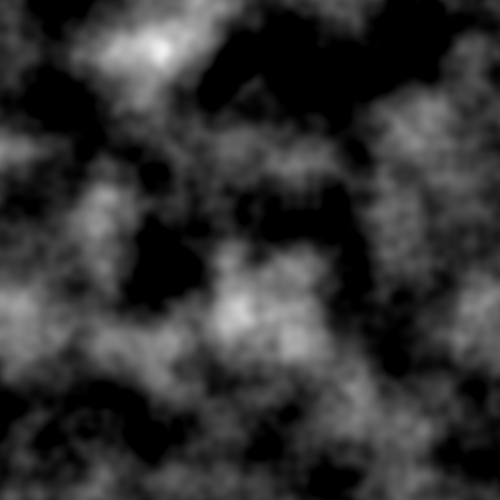
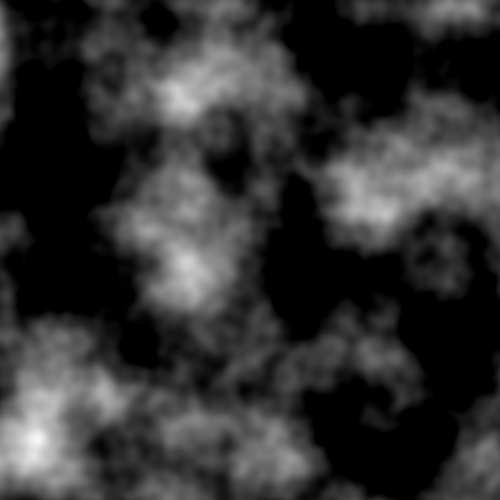
Use noise function instead of precalculated randoms

diff --git a/src/alg/perlin.rs b/src/alg/perlin.rs
@@ -1,7 +1,32 @@
+use std::collections::HashSet;
+
 use glam::{Vec2, Vec3};
 use rand::prelude::*;
 
-use crate::alg::{mix_f32, Noise};
+use crate::alg::{mix_f32, mix_vec3, Noise};
+
+fn noise(p: Vec2) -> Vec2 {
+    let p = p + 0.02;
+    let x = p.dot(Vec2::new(123.4, 234.5));
+    let y = p.dot(Vec2::new(234.5, 345.6));
+    let mut noise = Vec2::new(x, y);
+
+    noise = Vec2::new(f32::sin(noise.x), f32::sin(noise.y));
+    noise = noise * 43758.5453;
+
+    noise = Vec2::new(f32::sin(noise.x), f32::sin(noise.y));
+    return noise * 1.01;
+}
+
+// vec2 noise2x2(vec2 p) {
+//   float x = dot(p, vec2(123.4, 234.5));
+//   float y = dot(p, vec2(345.6, 456.7));
+//   vec2 noise = vec2(x, y);
+//   noise = sin(noise);
+//   noise = noise * 43758.5453;
+//   noise = fract(noise);
+//   return noise;
+// }
 
 fn quintic(p: Vec2) -> Vec2 {
     return p * p * p * (p * (p * 6.0 - 15.) + 10.);
@@ -9,48 +34,32 @@ fn quintic(p: Vec2) -> Vec2 {
 
 pub struct Perlin {
     pub scale: u32,
-    pub anchors: Vec<Vec2>,
 }
 
 impl Perlin {
-    fn rnd_anchors(scale: u32) -> Vec<Vec2> {
-        let num = (scale + 1) * (scale + 1);
-        let mut anchors: Vec<Vec2> = Vec::with_capacity((num) as usize);
-        let mut rng = rand::rng();
-        for _ in 0..num {
-            let rx = rng.random_range(-1.0..1.0);
-            let ry = rng.random_range(-1.0..1.0);
-
-            anchors.push(Vec2::new(rx, ry));
-        }
-
-        anchors
-    }
-
     pub fn new(scale: u32) -> Perlin {
-        Perlin {
-            scale,
-            anchors: Perlin::rnd_anchors(scale),
-        }
+        Perlin { scale }
     }
 }
 
 impl Noise for Perlin {
-    fn noise(&self, uv: Vec2) -> Vec3 {
+    fn noise(&mut self, uv: Vec2) -> Vec3 {
         let s_uv = uv * self.scale as f32;
 
         let grid_id = s_uv.floor();
-        let mut grid_uv = s_uv.fract();
+        let mut grid_uv = s_uv - grid_id;
 
-        let index_tl = (grid_id.x + grid_id.y * (self.scale + 1) as f32) as usize;
-        let index_tr = index_tl + 1;
-        let index_br = index_tl + self.scale as usize + 2;
-        let index_bl = index_br - 1;
+        let s = format!("{},{}", grid_id.x, grid_id.y);
 
-        let grad_tl = self.anchors.get(index_tl).unwrap();
-        let grad_tr = self.anchors.get(index_tr).unwrap();
-        let grad_br = self.anchors.get(index_br).unwrap();
-        let grad_bl = self.anchors.get(index_bl).unwrap();
+        let tl = grid_id + Vec2::new(0.0, 0.0);
+        let tr = grid_id + Vec2::new(1.0, 0.0);
+        let br = grid_id + Vec2::new(1.0, 1.0);
+        let bl = grid_id + Vec2::new(0.0, 1.0);
+
+        let grad_tl = noise(tl);
+        let grad_tr = noise(tr);
+        let grad_br = noise(br);
+        let grad_bl = noise(bl);
 
         let uv_to_tl = grid_uv - Vec2::new(0.0, 0.0);
         let uv_to_tr = grid_uv - Vec2::new(1.0, 0.0);
@@ -63,8 +72,10 @@ impl Noise for Perlin {
         let dot_bl = grad_bl.dot(uv_to_bl);
 
         grid_uv = quintic(grid_uv);
+
         let t = mix_f32(dot_tl, dot_tr, grid_uv.x);
         let b = mix_f32(dot_bl, dot_br, grid_uv.x);
+
         let noise = mix_f32(t, b, grid_uv.y) + 0.1;
 
         Vec3::new(noise, noise, noise)

diff --git a/src/alg/worley.rs b/src/alg/worley.rs
@@ -1,40 +1,36 @@
 use glam::{Vec2, Vec3};
 use rand::prelude::*;
 
-use crate::alg::Noise;
+use crate::alg::{mix_vec3, Noise};
+
+fn noise(p: Vec2) -> Vec2 {
+    //let p = p + 0.02;
+    let x = p.dot(Vec2::new(123.4, 234.5));
+    let y = p.dot(Vec2::new(234.5, 345.6));
+    let mut noise = Vec2::new(x, y);
+
+    noise = Vec2::new(f32::sin(noise.x), f32::sin(noise.y));
+    noise = noise * 43758.5453;
+
+    noise = noise.fract();
+    return noise;
+}
 
 pub struct Worley {
     scale: u32,
-    anchors: Vec<Vec2>,
 }
 
 impl Worley {
-    fn rnd_anchors(scale: u32) -> Vec<Vec2> {
-        let mut anchors: Vec<Vec2> = Vec::with_capacity((scale * scale) as usize);
-        let mut rng = rand::rng();
-        for _ in 0..scale * scale {
-            let rx = rng.random::<f32>();
-            let ry = rng.random::<f32>();
-
-            anchors.push(Vec2::new(rx, ry));
-        }
-
-        anchors
-    }
-
     pub fn new(scale: u32) -> Worley {
-        Worley {
-            scale,
-            anchors: Worley::rnd_anchors(scale),
-        }
+        Worley { scale }
     }
 }
 
 impl Noise for Worley {
-    fn noise(&self, uv: Vec2) -> Vec3 {
+    fn noise(&mut self, uv: Vec2) -> Vec3 {
         let st = uv * self.scale as f32;
 
-        let current_cell = Vec2::new(st.x.floor(), st.y.floor());
+        let current_cell = st.floor();
 
         let mut min_dist = 1.0f32;
 
@@ -42,15 +38,7 @@ impl Noise for Worley {
             for nx in -1..=1 {
                 let offset_cell = Vec2::new(nx as f32, ny as f32);
 
-                let index = ((current_cell.x + offset_cell.x)
-                    + (current_cell.y + offset_cell.y) * self.scale as f32)
-                    as usize;
-
-                let point: Vec2;
-                match self.anchors.get(index) {
-                    None => continue,
-                    Some(p) => point = *p,
-                }
+                let point = (noise(current_cell + offset_cell)).abs();
 
                 let diff = (current_cell + offset_cell + point) - st;
 
@@ -59,6 +47,7 @@ impl Noise for Worley {
                 min_dist = min_dist.min(dist);
             }
         }
+
         Vec3::new(min_dist, min_dist, min_dist)
     }
 }

diff --git a/src/main.rs b/src/main.rs
@@ -1,30 +1,29 @@
 mod alg;
 
-use glam::Vec2;
+use glam::{Vec2, Vec3};
 
 use image::{ImageBuffer, Rgb};
 
 use crate::alg::fbm::fbm;
-use crate::alg::mix_vec3;
+use crate::alg::{mix_vec3, worley};
 use crate::alg::perlin::Perlin;
 use crate::alg::worley::Worley;
 use crate::alg::Noise;
 
 fn generate(
     res: u32,
-    noises: Vec<impl Noise>,
-    mut f: impl FnMut(u32, u32, f32, f32, f32),
+    offset: Vec2,
+    noises: &mut Vec<impl Noise>,
+    mut f: impl FnMut(u32, u32, Vec3),
 ) -> Vec<u8> {
     for iy in 0..res {
         for ix in 0..res {
             let p = Vec2::new(ix as f32, iy as f32);
-            let uv = p / res as f32;
+            let uv = p / res as f32 + offset;
 
-            let col = fbm(uv, &noises);
+            let col = fbm(uv, noises);
 
-            let rgb = mix_vec3(0., 266., col);
-
-            f(ix, iy, rgb.x, rgb.y, rgb.z);
+            f(ix, iy, col);
         }
     }
 
@@ -36,16 +35,25 @@ fn main() {
     let mut imgbuf: ImageBuffer<Rgb<u8>, Vec<_>> = image::ImageBuffer::new(res, res);
 
     // Different random points for each octave.
-    let noises = vec![
-        Perlin::new(4),
-        Perlin::new(8),
-        Perlin::new(16),
-        Perlin::new(32),
+    let noises = &mut vec![
+        Worley::new(4),
+        Worley::new(8),
+        Worley::new(16),
+        Worley::new(32),
     ];
 
-    generate(res, noises, |ix, iy, r, g, b| {
+    let reverse_col = true;
+
+    generate(res, Vec2::new(0., 0.), noises, |ix, iy, col| {
         let pixel = imgbuf.get_pixel_mut(ix, iy);
-        *pixel = image::Rgb([r as u8, g as u8, b as u8]);
+
+        let rgb = if !reverse_col {
+            mix_vec3(0., 255., col)
+        } else {
+            mix_vec3(255., 0., col)
+        };
+
+        *pixel = image::Rgb([rgb.x as u8, rgb.y as u8, rgb.z as u8]);
     });
 
     imgbuf.save("out.png").unwrap();

diff --git a/src/alg/fbm.rs b/src/alg/fbm.rs
@@ -2,9 +2,10 @@ use glam::{Vec2, Vec3};
 
 use crate::alg::Noise;
 
-pub fn fbm(v: Vec2, noises: &Vec<impl Noise>) -> Vec3 {
+pub fn fbm(v: Vec2, noises: &mut Vec<impl Noise>) -> Vec3 {
     let mut sum = Vec3::ZERO;
     let mut amplitude = 1.0;
+    let len = noises.len() as f32;
 
     for n in noises {
         sum += n.noise(v) * amplitude;

diff --git a/src/alg/mod.rs b/src/alg/mod.rs
@@ -19,5 +19,5 @@ pub fn mix_f32(start: f32, stop: f32, a: f32) -> f32 {
 }
 
 pub trait Noise {
-    fn noise(&self, uv: Vec2) -> Vec3;
+    fn noise(&mut self, uv: Vec2) -> Vec3;
 }
